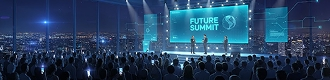
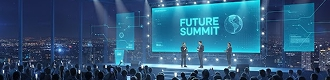
kategori imajlari guncellendi

diff --git a/src/components/common/Category.tsx b/src/components/common/Category.tsx
@@ -1,12 +1,15 @@
 import Link from "next/link";
 import { useEffect, useState } from "react";
 import { fetchCategories, Category } from '@/services';
-import cat_img1 from "@/assets/img/images/t_cat_img01.jpg";
-import cat_img2 from "@/assets/img/images/t_cat_img02.jpg";
-import cat_img3 from "@/assets/img/images/t_cat_img03.jpg";
+import cat_img1 from "@/assets/img/images/t_cat_img02.jpg";
+import cat_img2 from "@/assets/img/images/t_cat_img01.jpg";
+import cat_img3 from "@/assets/img/images/t_cat_img05.jpg";
 import cat_img4 from "@/assets/img/images/t_cat_img04.jpg";
+import cat_img5 from "@/assets/img/images/t_cat_img06.jpg";
+import cat_img6 from "@/assets/img/images/t_cat_img07.jpg";
+import cat_img7 from "@/assets/img/images/t_cat_img07.jpg";
 
-const staticImages = [cat_img1.src, cat_img2.src, cat_img3.src, cat_img4.src];
+const staticImages = [cat_img1.src, cat_img2.src, cat_img3.src, cat_img4.src, cat_img5.src, cat_img6.src, cat_img7.src];
 
 const DEFAULT_IMAGE_URL = "/assets/img/images/default-category.jpg";
 
